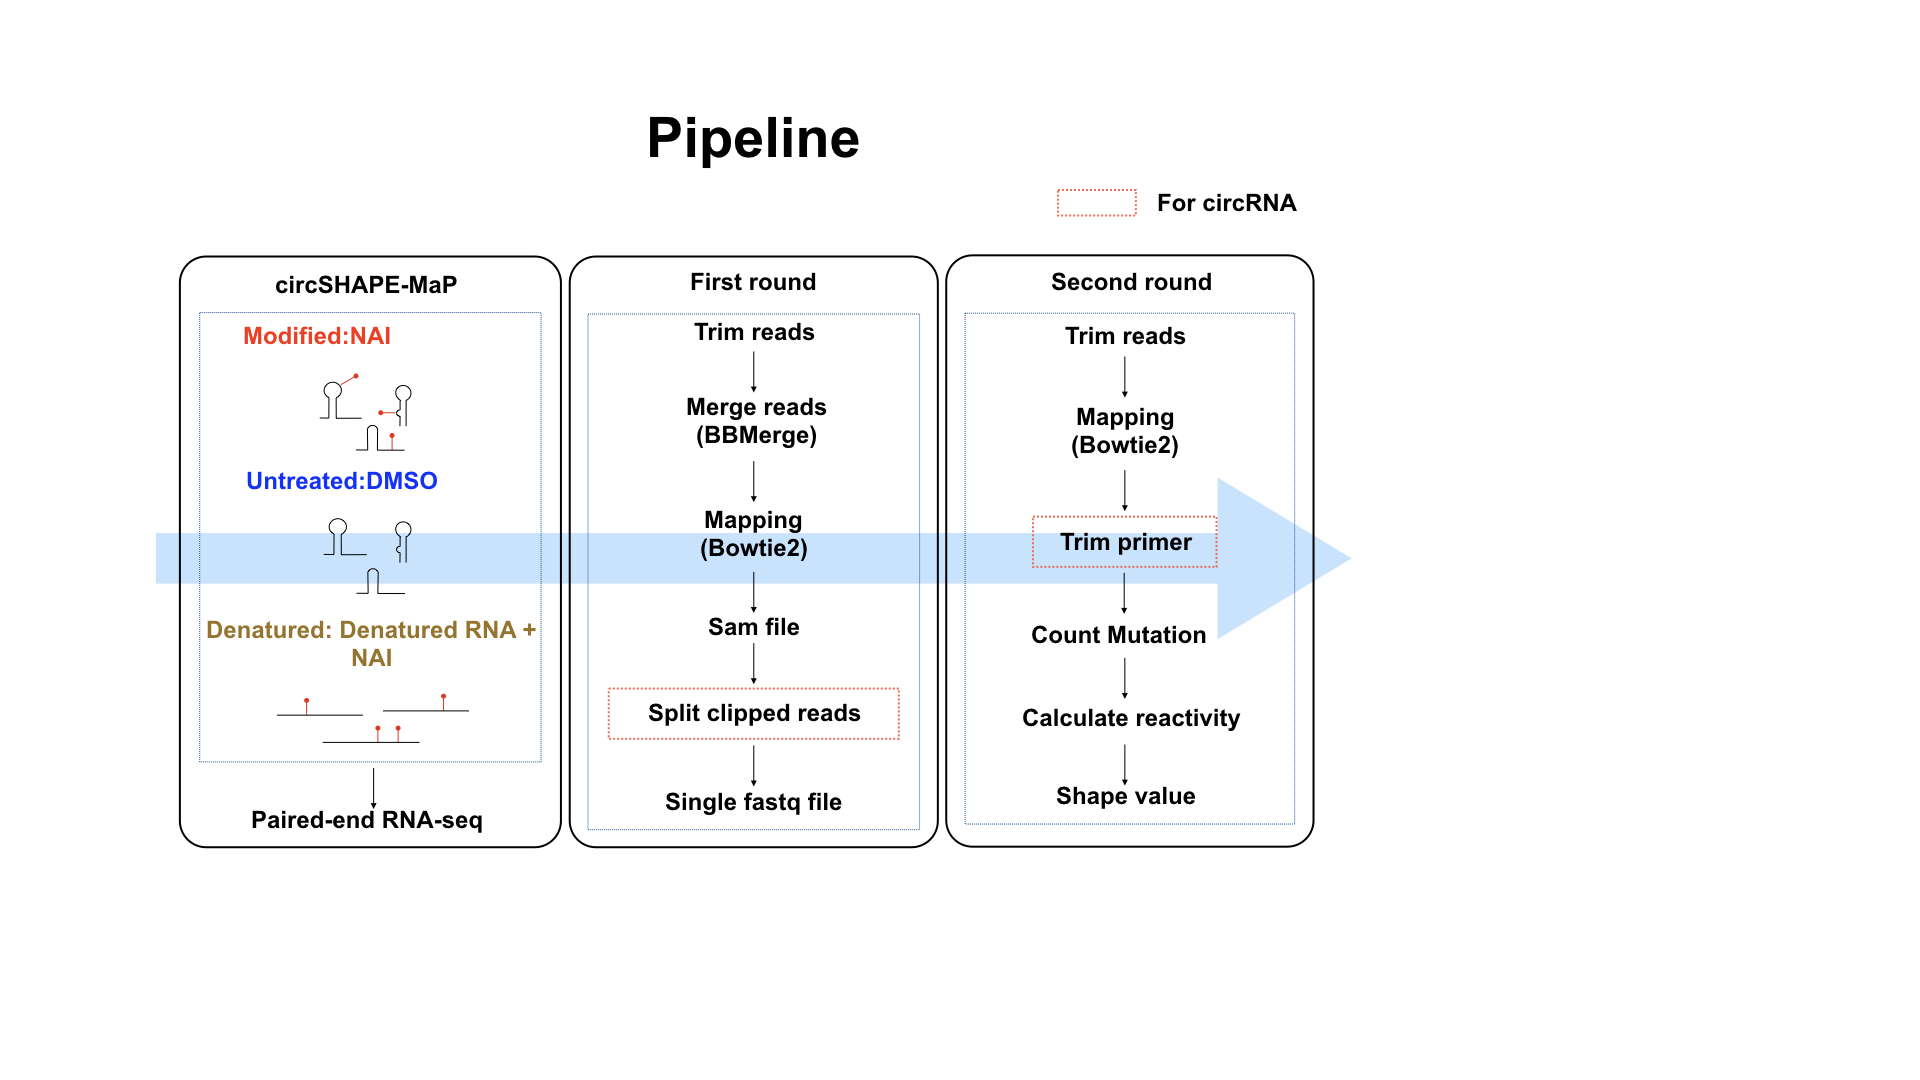
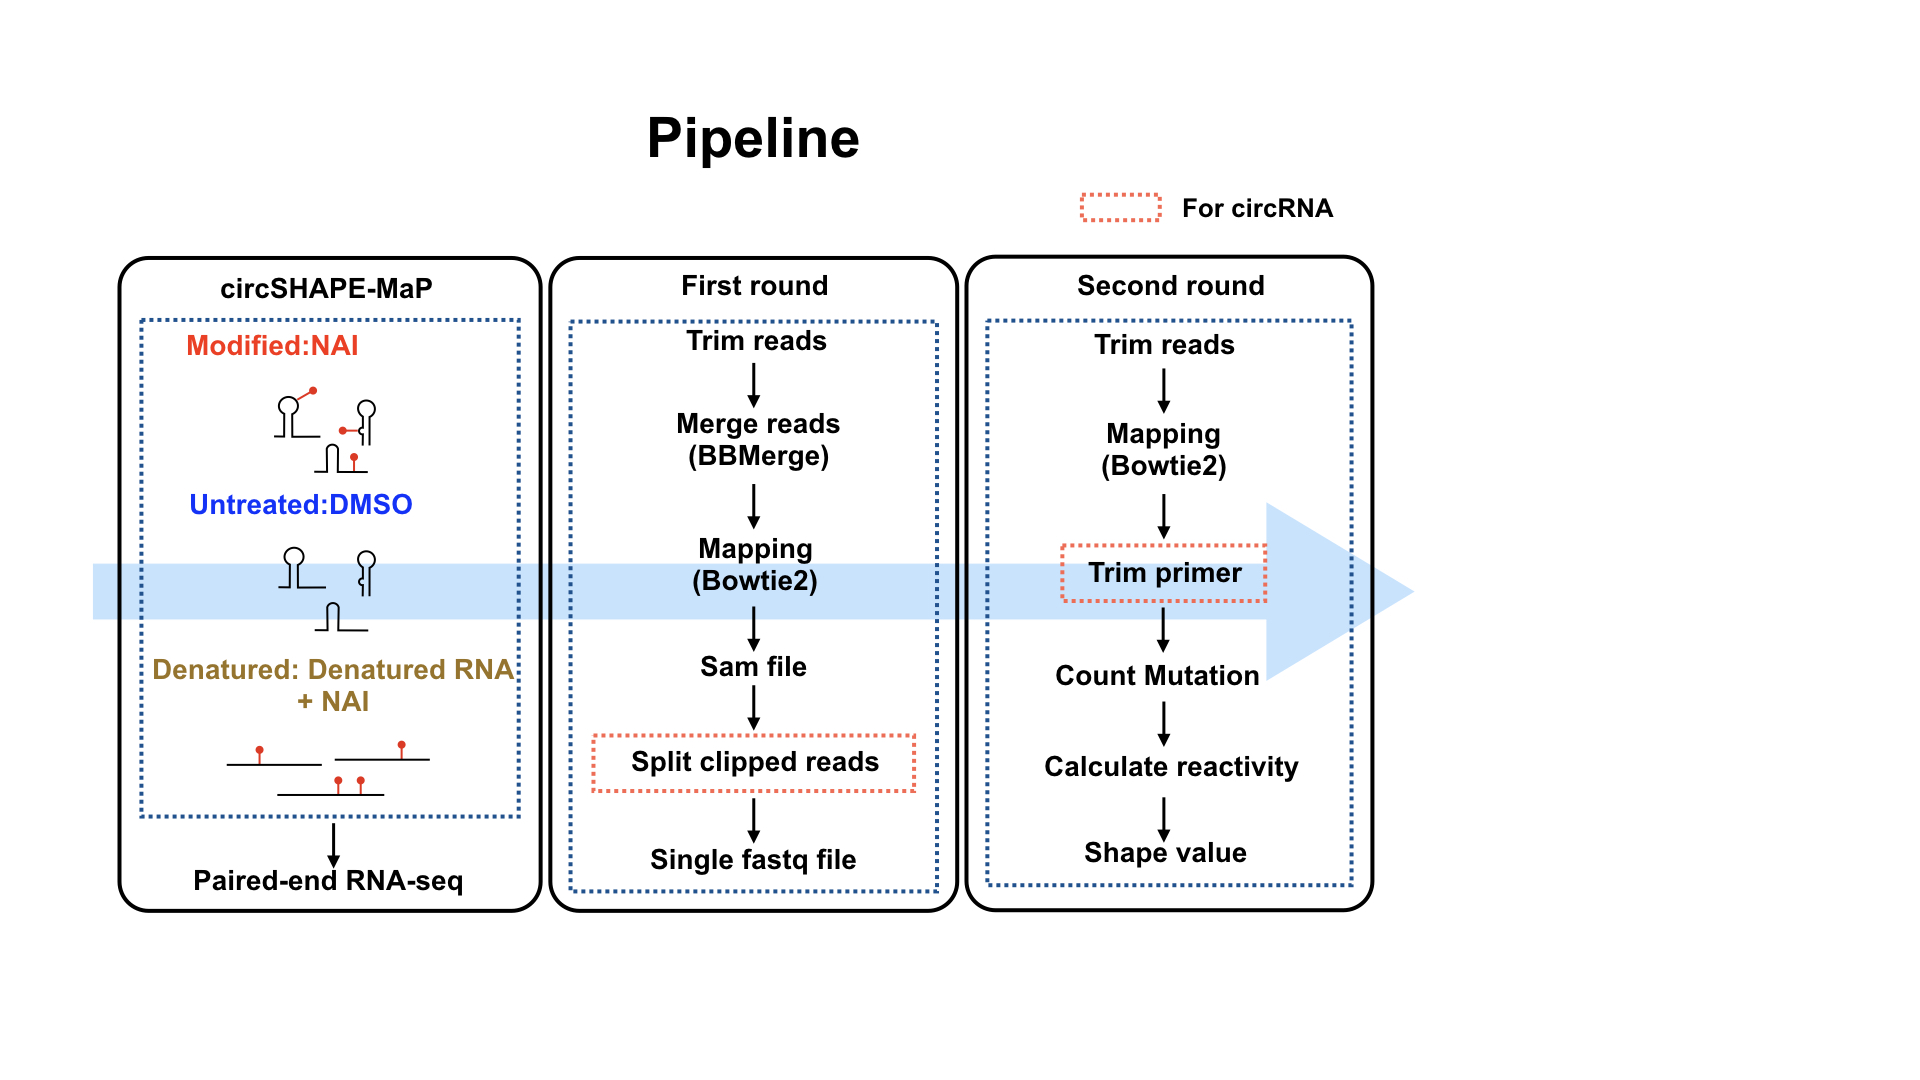
manual

Changed region(s): [[0.0312, 0.1528, 0.75, 0.8556]]

diff --git a/README.md b/README.md
@@ -5,7 +5,7 @@ circSHAPEmapper is a pipeline to analyze the circSHAPE-MaP data. Using this pipe
 A schematic flow shows the pipeline
 -------------------------------------
 
-![image]
+![image](https://github.com/YangLab/circSHAPEmapper/blob/master/manual/pipline.001.jpeg)
 
 Requirement
 ------------------------------------
@@ -22,6 +22,7 @@ Usage
 		-s SAM, --sam SAM  input the mapped sam file
 		-o OUT, --out OUT  output the single-end fastq file
 
+![image](https://github.com/YangLab/circSHAPEmapper/blob/master/manual/pipline.002.jpeg)
 
 #### circSHAPEtrim
 
@@ -31,3 +32,4 @@ Usage
 		-i INPUT, --input INPUT sam file
 		-p PRIMER, --primer PRIMER primer file 
 		-o OUT, --out OUT    output file
+![image](https://github.com/YangLab/circSHAPEmapper/blob/master/manual/pipline.003.jpeg)
